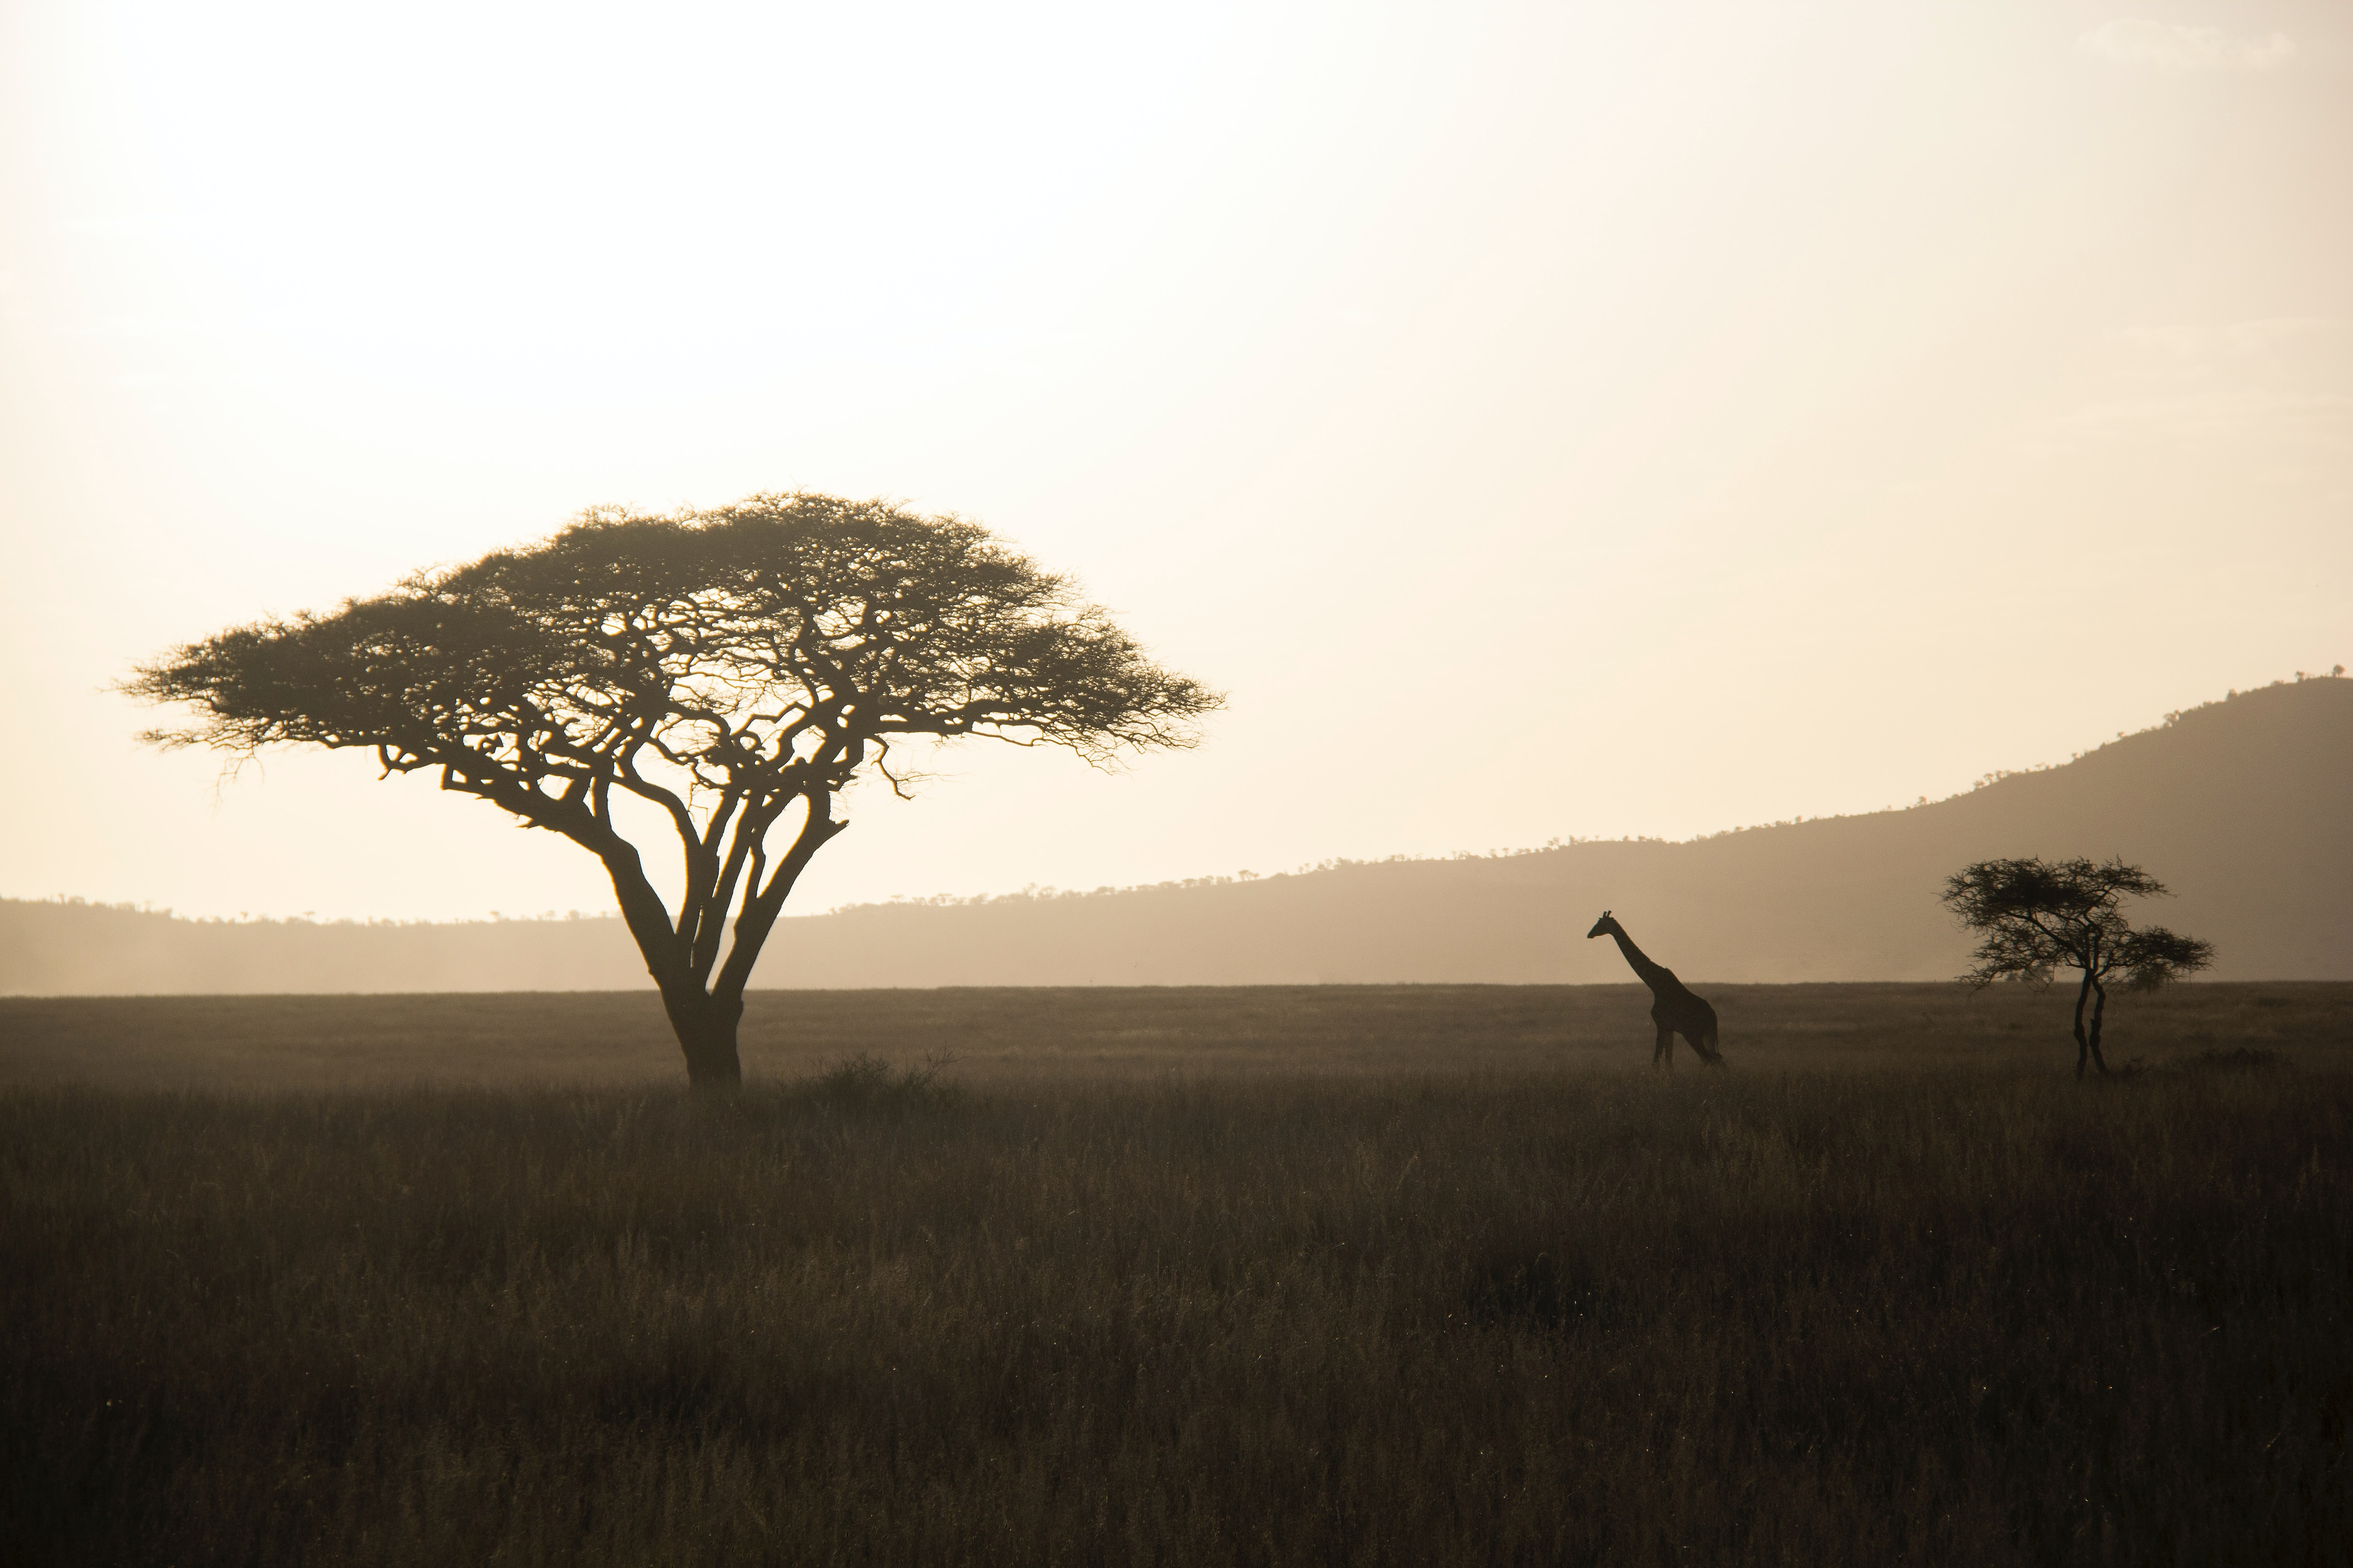
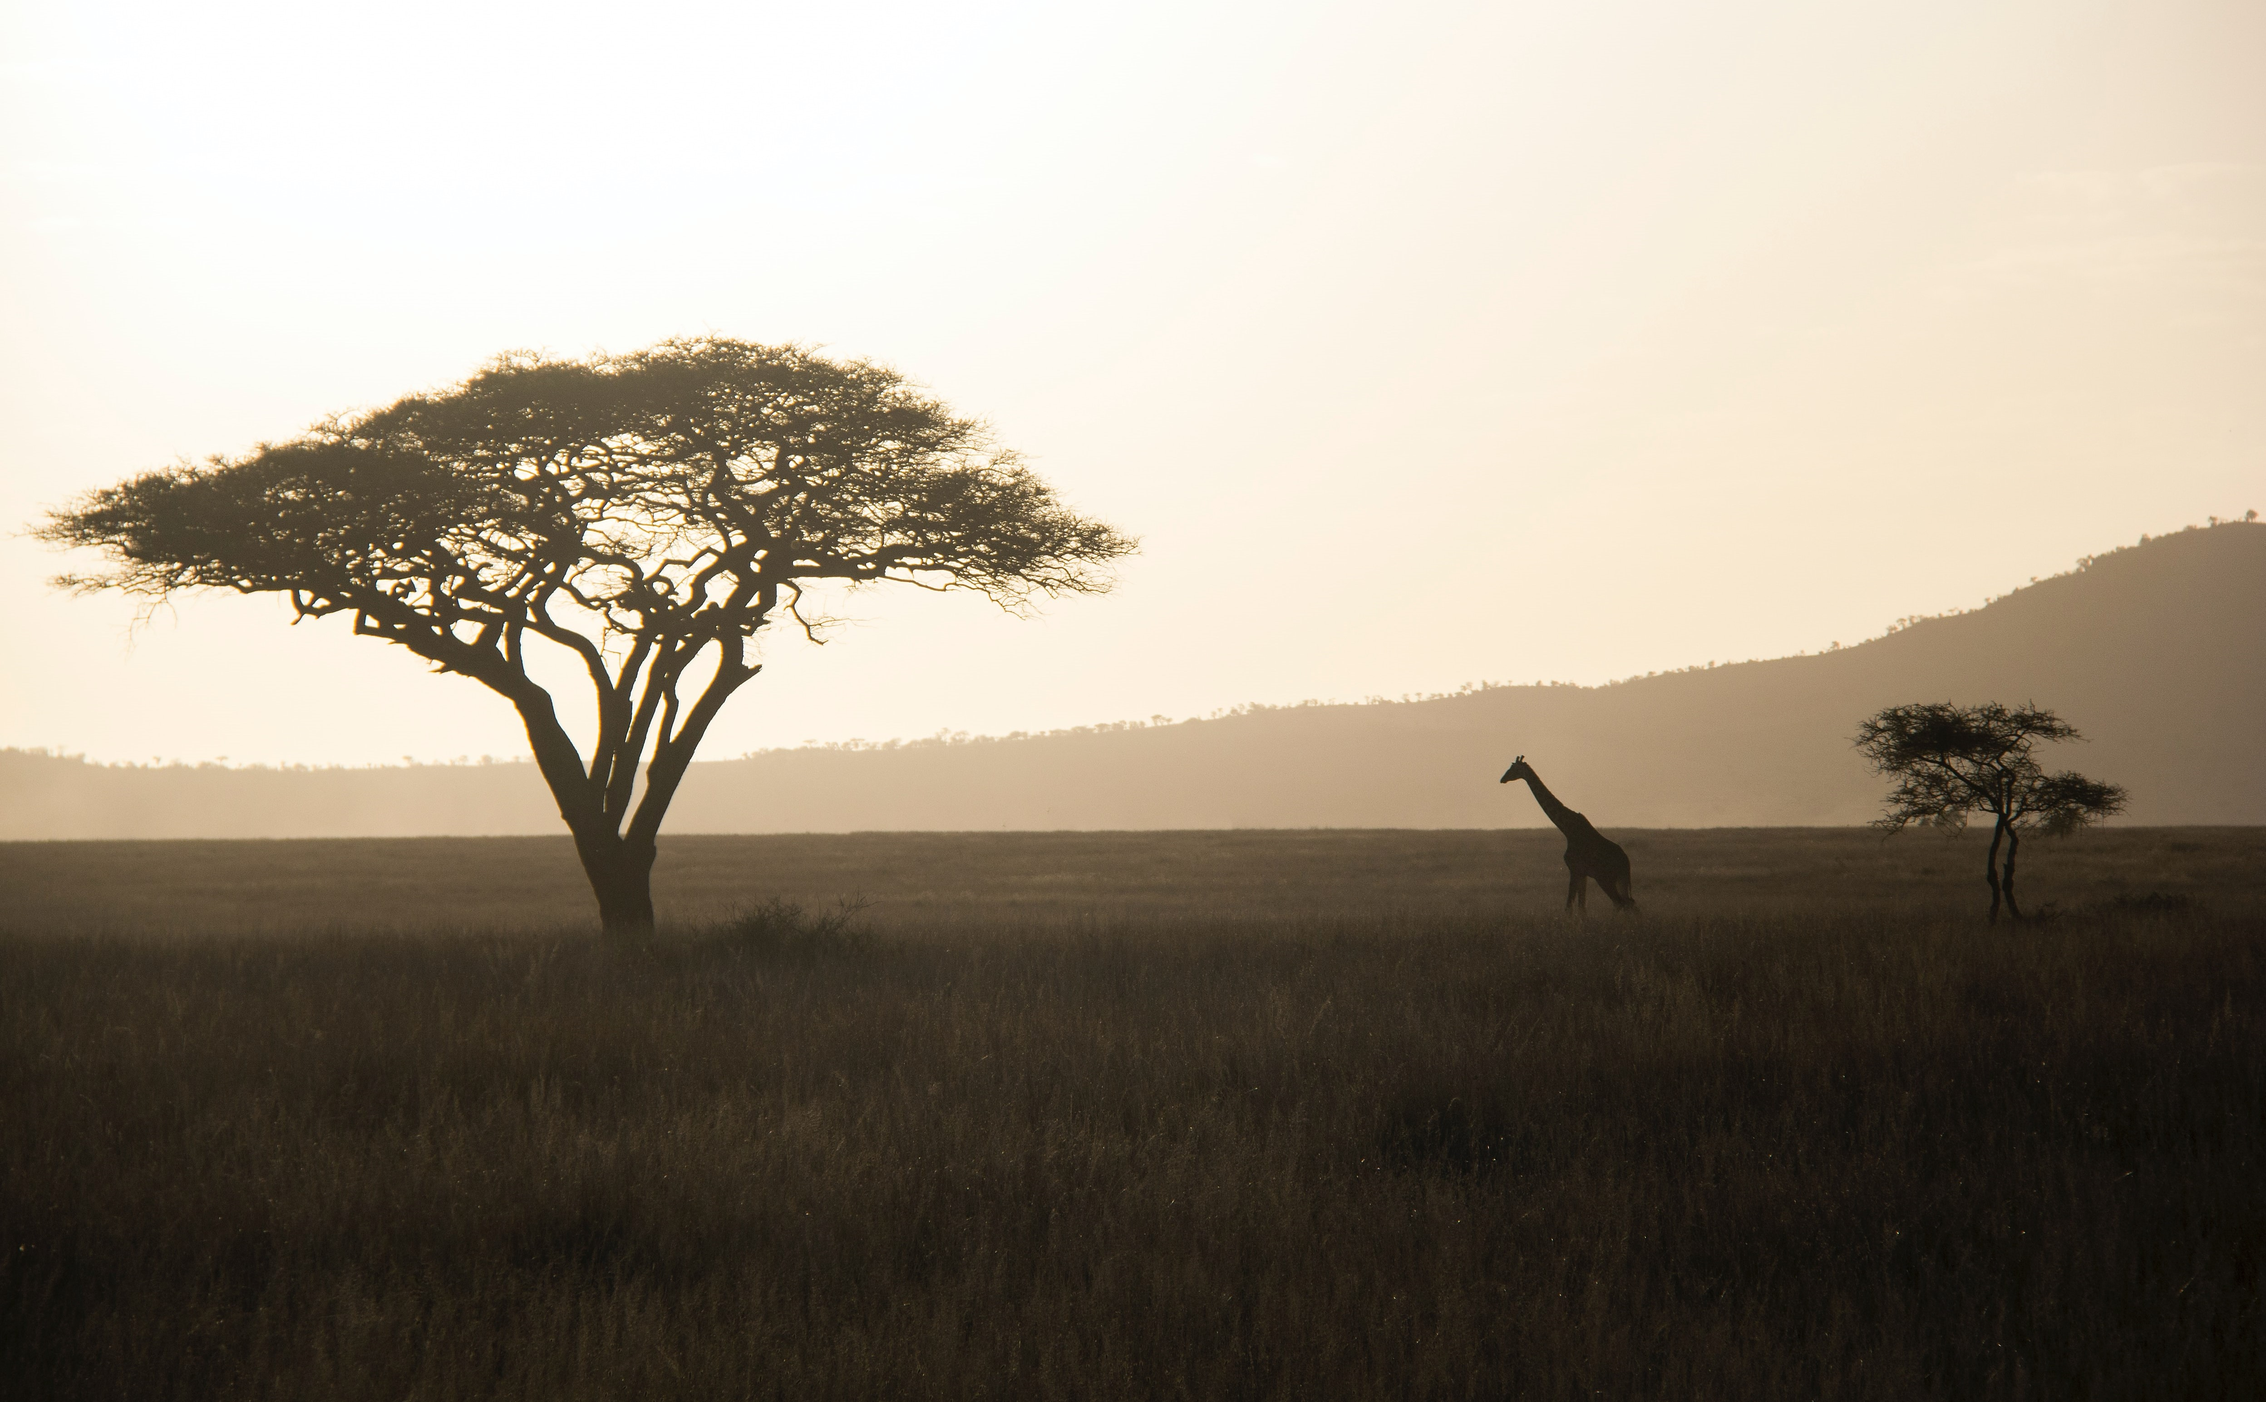
arreglado parallax

Changed region(s): [[0.0, 0.2175, 1.0, 0.7146]]

diff --git a/src/App.jsx b/src/App.jsx
@@ -2,7 +2,7 @@ import { useState } from 'react'
 import Image from './Image'
 import africa1 from '../public/africa1.jpg'
 import africa2 from '../public/africa2.jpg'
-import peces from '../public/peces.jpg'
+import sabana2 from '../public/sabana2.jpg'
 import tortuga from '../public/tortuga.jpg'
 import Text from './Text'
 import Navbar from './Navbar'
@@ -13,11 +13,11 @@ function App() {
   return (
     <div className='container'>
     <Navbar/>
-      <Image foto={africa1} titulo={'primero'}/>
+      <Image foto={africa1} titulo={'Naturaleza salvaje'}/>
       <Text/>
       <Image foto={africa2} titulo={'segundo'}/>
       <Text/>
-      <Image foto={peces} titulo={'tercero'}/>
+      <Image foto={sabana2} titulo={'tercero'}/>
       <Text/>
     </div>
   )

diff --git a/src/Image.jsx b/src/Image.jsx
@@ -7,9 +7,9 @@ import React from 'react'
 export default function Image(props) {
   return (
     <Parallax bgImage={props.foto} strength={300} className='imagen'>
-        {/* <div className="titulo-principal" id={props.titulo}>
+        <div className="titulo-principal" id={props.titulo}>
             <span>{props.titulo}</span>
-        </div> */}
+        </div>
     </Parallax>
   )
 }

diff --git a/src/assets/css/navbar.css b/src/assets/css/navbar.css
@@ -1,5 +1,5 @@
 .navbar{
-    padding:0px 60px;
+    padding:0px 150px;
     position:absolute;
     top:0px;
     left:0px;
@@ -22,4 +22,8 @@
     text-transform:uppercase;
     font-weight:bold;
     letter-spacing:3px;
+}
+
+.navbar li:hover{
+    color:gray
 }

diff --git a/src/assets/css/image.css b/src/assets/css/image.css
@@ -1,6 +1,7 @@
 .imagen{
     position:relative;
     height: 100vh;
+    min-height:100vh;
     width: 100%;
 }
 

diff --git a/src/index.css b/src/index.css
@@ -22,6 +22,10 @@ a{
   color:white;
 }
 
+a:hover{
+    color:gray
+}
+
 html {
   scroll-behavior: smooth;
 }
